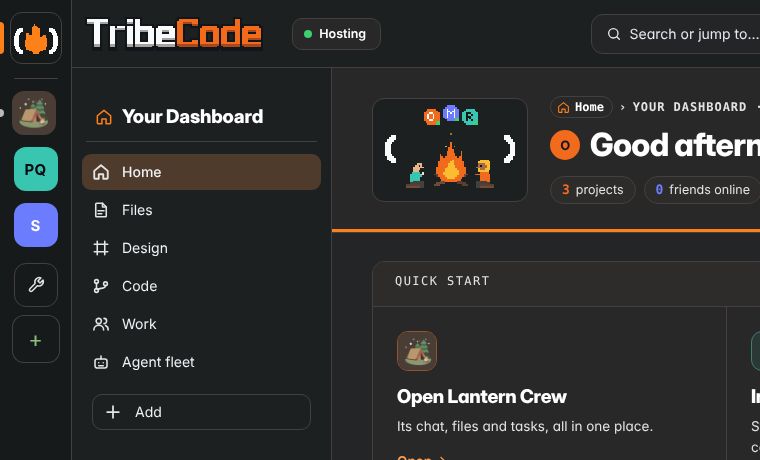
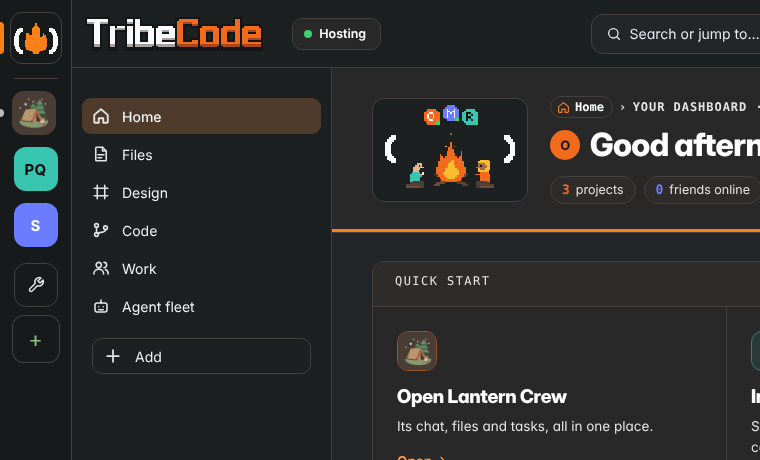
v0.31.2: remove the "Your Dashboard" heading from Home's sidebar
Claude-Session: https://claude.ai/code/session_01Twew38tmNVdwNycXqatzin

diff --git a/app/ui/sw.js b/app/ui/sw.js
@@ -1,5 +1,5 @@
 // Offline shell for the installed app. API, MCP and WebSocket traffic always goes to the network.
-const CACHE = 'tribecode-shell-v173';
+const CACHE = 'tribecode-shell-v174';
 const SHELL = ['./', 'canvas/extras.js', 'canvas/extras.css', 'phonehost.js', 'phonehost.css', 'motion.css', 'motion.js', 'tasks.css', 'flintfly.js', 'flintfly.css', 'index.html', 'join.html', 'tokens.css', 'fonts.css', 'styles.css', 'readability.css', 'keyboard.js', 'modes.js', 'mentions.js', 'exporter.js', 'helpersetup.js', 'healthpill.js', 'updater.css', 'live.css', 'docs.css', 'mobile.css', 'coedit.css', 'web.css', 'repo.css', 'notify.css', 'userbar.js', 'cropper.js', 'cropper.css', 'chatlist.css', 'guide.js', 'guide.css', 'help.js', 'help.css', 'hostpill.js', 'hostpill.css', 'panes.js', 'panes.css', 'logo.js', 'logo.css', 'flintguide.js', 'flintguide.css', 'palette.css', 'assets/flint.svg', 'widgets.js', 'widgets.css', 'sense.js', 'sense.css', 'assets/icon-animated.svg', 'assets/icon-mark-animated.svg', 'assets/icon-mark.svg', 'assets/icon-mark-once.svg', 'richtext.js', 'richtext.css', 'flint.js', 'flintmem.js', 'flint.css', 'connectai.js', 'connectai.css', 'mcpdir.js', 'mcpdir.css', 'brainpick.js', 'brainpick.css', 'askagent.js', 'doclayout.js', 'doclayout.css', 'oauth.css', 'oauth.js', 'signin.html', 'go.html', 'demo.html', 'demo.webmanifest', 'voice.css', 'plan.css', 'projects.css', 'shell.css', 'coord.css', 'selfheal.js', 'store.js', 'tribe.js', 'media.js', 'settings.js', 'storage.js', 'i18n.js', 'flinttour.js', 'updater.js', 'md.js', 'tasks.js', 'tasknews.js', 'ot.js', 'coedit.js', 'docs.js', 'board.js', 'bugs.js', 'palette.js', 'huddle.js', 'qr.js', 'web.js', 'repo.js', 'notify.js', 'speech.js', 'captions.js', 'capture.js', 'dm.js', 'chatx.js', 'float.js', 'plan.js', 'docsx.js', 'visuals.js', 'app.js', 'projects.js', 'stage.js', 'roles.js', 'roles.css', 'codefiles.js', 'codefiles.css', 'profiles.js', 'profiles.css', 'look.js', 'look.css', 'channels.js', 'chatrich.js', 'emojipick.js', 'chat2.css', 'shell.js', 'coord.js', 'assets/icon-512.png', 'assets/icon.svg', 'assets/wordmark.svg', 'manifest.webmanifest', 'assets/illustrations/cooperative.svg', 'assets/illustrations/campfire.svg', 'assets/illustrations/brain.svg', 'assets/illustrations/chat.svg', 'assist.js', 'assist.css', 'assets/apple-touch-icon.png', 'people.css', 'votes.css', 'gists.css', 'flow.css', 'repohero.css', 'mobile2.css', 'workshop.css', 'offline.css', 'agentshub.css', 'secretary.css', 'bubbles.css', 'plusmenu.css', 'preview.css', 'hub.css', 'folders.css', 'website.css', 'themes.css', 'viewers.css', 'phoneapp.css', 'offline.js', 'themes.js', 'votes.js', 'people.js', 'gists.js', 'flow.js', 'repohero.js', 'mobile2.js', 'workshop.js', 'agentshub.js', 'secretary.js', 'profilemenu.js', 'plusmenu.js', 'preview.js', 'github.js', 'folders.js', 'hub.js', 'website.js', 'viewers.js', 'phoneapp.js', 'assets/fonts/Inter-Bold.otf', 'assets/fonts/Inter-Medium.otf', 'assets/fonts/Inter-Regular.otf', 'assets/fonts/Inter-SemiBold.otf', 'assets/fonts/InterDisplay-ExtraBold.otf', 'assets/wordmark-light.svg', 'showcase.css', 'showcase.js', 'agentsdash.js', 'agentsdash.css', 'fleet.js', 'fleet.css', 'whiteboard.js', 'whiteboard.css', 'director.js', 'director.css', 'demo-game.html', 'setup.js', 'setup.css', 'captures.js', 'captures.css', 'welcome.js', 'welcome.css', 'filegrid.js', 'filegrid.css', 'assets.js', 'assets.css', 'inspo.js', 'reco.js', 'companylinks.js', 'inspo.css', 'cursors.js', 'cursors.css', 'sheet.js', 'deck.js', 'crafts.css', 'feedback.js', 'feedback.css', 'focus.js', 'assets/camp.svg', 'ship.js', 'ship.css', 'company.js', 'company.css', 'ledger.js', 'ledger.css', 'talent.js', 'talent.css', 'market.js', 'market.css', 'academy.js', 'academy.css', 'legal.js', 'legal.css', 'offload.js', 'offload.css', 'studios.js', 'studios.css', 'publish.js', 'publish.css', 'jam.js', 'jam.css', 'firstrun.js', 'firstrun.css', 'previewflint.css', 'previewflint.js', 'personalize.js', 'personalize.css', 'pins.js', 'pins.css', 'canvas/scene.js', 'canvas/layers.js', 'canvas/props.js', 'canvas/canvas.js', 'canvas/canvas.css', 'canvas/code.js', 'canvas/code.css', 'sitelib.js', 'sitelib.css', 'canvas/flint.js', 'canvas/flint.css', 'flintnlu.js', 'flintlocal.js', 'canvas/flintpane.js', 'canvas/flintpane.css', 'offline.html', 'pwa.js', 'pwa.css', 'moderation.js', 'moderation.css', 'assets/icon-192.png', 'assets/icon-512-maskable.png', 'assets/icon-monochrome.png', 'privacy.html', 'terms.html', 'setuplocal.js', 'setuplocal.css', 'localfiles.js', 'localfiles.css', 'aibasics-core.js', 'aibasics.js', 'aibasics.css', 'flintgrow.js', 'inspoboard.js', 'inspoboard.css', 'router.js', 'accounts.js', 'accounts.css', 'siteedit-core.js', 'siteshelf.js', 'siteshelf.css', 'workcore.js', 'workloop.js', 'workloop.css', 'doctpl-data.js', 'doctpl.js', 'doctpl.css', 'premium.js', 'premium.css', 'localdoc.js', 'flintrun.js', 'flintrun.css', 'devslate.js', 'aiconsent.js', 'aiconsent.css', 'signup.js', 'signup.css', 'sitecfg.js', 'sitedesigner.js', 'sitedesigner.css', 'sitedesigner-frame.js', 'framerun.js', 'aiboost.js', 'aiboost.css', 'flintlessons.js', 'flintlessons.css', 'demowatch.js', 'demowatch.css', 'makelink.js', 'filesview.js', 'filesview.css', 'icons.js', 'icons.css', 'rail.css', 'plans.js', 'plans.css', 'homegit.js', 'homegit.css', 'sidefoot.js', 'sidefoot.css', 'reorder.js', 'reorder.css', 'market-catalog.json', 'abilities.js', 'abilities.css', 'siteimport.js', 'sitetpl/catalog.json', 'sitetpl/linkbio.json', 'sitetpl/tt-profile-card.json', 'sitetpl/h5-identity.json', 'sitetpl/service.json', 'sitetpl/sb-agency.json', 'sitetpl/sb-business-frontpage.json', 'sitetpl/sb-creative.json', 'sitetpl/sb-modern-business.json', 'sitetpl/sb-small-business.json', 'sitetpl/saas.json', 'sitetpl/sb-grayscale.json', 'sitetpl/sb-landing-page.json', 'sitetpl/sb-new-age.json', 'sitetpl/sb-one-page-wonder.json', 'sitetpl/tt-landing-page.json', 'sitetpl/tt-app-landing.json', 'sitetpl/h5-photon.json', 'sitetpl/h5-stellar.json', 'sitetpl/h5-landed.json', 'sitetpl/portfolio.json', 'sitetpl/photography.json', 'sitetpl/sb-freelancer.json', 'sitetpl/sb-stylish-portfolio.json', 'sitetpl/h5-forty.json', 'sitetpl/h5-miniport.json', 'sitetpl/resume.json', 'sitetpl/sb-personal.json', 'sitetpl/sb-resume.json', 'sitetpl/h5-dimension.json', 'sitetpl/h5-read-only.json', 'sitetpl/blog.json', 'sitetpl/sb-clean-blog.json', 'sitetpl/tt-ghostwind.json', 'sitetpl/tt-minimal-blog.json', 'sitetpl/h5-massively.json', 'sitetpl/merch.json', 'sitetpl/tt-nordic-store.json', 'sitetpl/cafe.json', 'sitetpl/sb-business-casual.json', 'sitetpl/band.json', 'sitetpl/creator.json', 'sitetpl/podcast.json', 'sitetpl/wedding.json', 'sitetpl/nonprofit.json', 'sitetpl/gamepage.json', 'sitetpl/comingsoon.json', 'sitetpl/sb-coming-soon.json', 'sitetpl/h5-eventually.json', 'presence.js', 'presence.css', 'peoplepanel.js', 'peoplepanel.css', 'starterkit.js', 'designflow-data.js', 'designflow.js', 'designflow.css', 'starters/catalog.json'];
 if (/(^|\.)tauri\.localhost$/.test(self.location.hostname) || self.location.protocol === 'tauri:') {   // never inside the desktop app
   self.addEventListener('install', () => self.skipWaiting());

diff --git a/app/ui/hub.css b/app/ui/hub.css
@@ -571,10 +571,7 @@ body.global .crumbs .pj-switch, body.global .crumbs .pj-sep { display: none !imp
 #rail-logo { position: relative; }
 /* the sidebar says where you are */
 /* the sidebar's heading on Home (feat/shell-polish): "Your Dashboard", big and bold in the display face, with a small home icon */
-.nest-home-h { display: flex; align-items: center; gap: 8px; margin: 4px 4px 12px; padding: 4px 8px 12px; border-bottom: 1px solid var(--edge); color: var(--text); white-space: nowrap; overflow: hidden;
   font: 800 19px/1.2 var(--display); letter-spacing: -0.01em; }
-.nest-home-h .ti { color: var(--accent); }
-.nest-home-h b { font-weight: 800; overflow: hidden; text-overflow: ellipsis; }
 /* the breadcrumb starts with Home › */
 .crumb-home { display: inline-flex; align-items: center; gap: 4px; }
 .crumb-home[hidden] { display: none; }
@@ -592,7 +589,6 @@ body.at-home .main > #view-hub:has(.hub-files), body.at-home .main > #view-hub:h
   #view-hub .hub-home > .hub-id { margin: 0 -14px 16px; padding: 16px 14px 18px; border-width: 1px 0; }
   #view-hub .hub-home > .hub-id .hid-art { width: 74px; height: 62px; } #view-hub .hub-home > .hub-id .hid-art img { width: 66px; }
   #view-hub .hub-home > .hub-id h1 { font-size: 21px; }
-  .nest-home-h { margin: 0 4px 8px; }
 }
 .hub-crumb { display: flex; align-items: center; gap: 6px; margin: 0 0 8px; font: 600 12px/1 var(--mono); letter-spacing: .04em; color: var(--muted); }
 .hub-crumb .hc-home { display: inline-flex; align-items: center; gap: 5px; height: 22px; padding: 0 8px 0 6px; border: 1px solid var(--edge); border-radius: 999px; background: var(--surface); color: var(--text); font: inherit; cursor: pointer; }

diff --git a/app/ui/shell.js b/app/ui/shell.js
@@ -135,7 +135,7 @@
     const box = $('#nest-groups'); if (!box) return;
     drawnGlobal = isGlobal();
     document.body.classList.toggle('global', drawnGlobal);   // keep the class in step whichever path drew the rows
-    box.innerHTML = drawnGlobal ? `<h2 class="nest-home-h" id="nest-home-h" aria-current="page"><span data-icon="home" data-icon-size="20"></span><b>Your Dashboard</b></h2><div class="nest-group nest-global" id="grp-global" role="group" aria-label="Global">${DEST.filter(d => d.group === 'global' && (!(window.TribeMode && window.TribeMode.focused && window.TribeMode.focused()) || shown(d))).map(d =>
+    box.innerHTML = drawnGlobal ? `<div class="nest-group nest-global" id="grp-global" role="group" aria-label="Global">${DEST.filter(d => d.group === 'global' && (!(window.TribeMode && window.TribeMode.focused && window.TribeMode.focused()) || shown(d))).map(d =>
       `<button class="nest-row" data-pnav="${esc(d.key)}" id="nest-${esc(d.key)}">${ico(d.icon, 18)}<span>${esc(d.row || d.label)}</span></button>`).join('')}</div>` : '';
   }
   function paintCounts() {

diff --git a/app/test/e2e_shell_polish.py b/app/test/e2e_shell_polish.py
@@ -2,7 +2,7 @@
 pop-out, Connect GitHub on Home › Code, the sidebar's foot rows, the Workshop as a destination and your own order.
   1. Rail: Home, a tribe and the Workshop wrench light the same way: a pressed tile (no box-shadow) and a 32px Ember pill
      on the far-left edge; Back leaves the Workshop.
-  2. Home's sidebar says "Your Dashboard", big and bold.
+  2. Home's sidebar has no heading; the lit logo and the breadcrumb say where you are.
   3. Tabs (a workspace's, the Workshop's) and Settings carry stroke icons from app/ui/icons.js.
   4. Preview and Invite friends are rows like Files (same height, padding, type, radius, no border), with thumbnails:
      a 40x28 picture for Preview, faces (or a dashed add circle) for Invite.
@@ -76,12 +76,11 @@ def main():
             pg.goto(BASE + "/?skipIntro=1"); pg.wait_for_function("TribeClient.connected() && window.TribeHub && window.TribeProjects && TribeProjects.list().length >= 2 && window.TribeReorder", timeout=20000)
 
             # ---------- 1 + 2. Home: the lit logo and the heading ----------
-            pg.evaluate("TribeHub.open('home')"); pg.wait_for_selector("#rail-logo.on"); pg.wait_for_selector("#nest-home-h"); pg.mouse.move(700, 600); pg.wait_for_timeout(400)
+            pg.evaluate("TribeHub.open('home')"); pg.wait_for_selector("#rail-logo.on"); pg.wait_for_selector("#grp-global"); pg.mouse.move(700, 600); pg.wait_for_timeout(400)
             lg = pg.evaluate(PILL, "#rail-logo")
             assert lg["shadow"] == "none" and lg["h"] == 32 and lg["op"] == "1" and lg["left"] <= 1, ("Home: a pressed tile and the pill at the edge", lg)
             assert pg.evaluate("getComputedStyle(document.querySelector('#rail-logo')).outlineStyle") == "solid", "the tile's inset 1px border is an outline, not a shadow"
-            head = pg.evaluate("(() => { const h = document.querySelector('#nest-home-h'); const c = getComputedStyle(h); return { t: h.textContent.trim(), fs: parseFloat(c.fontSize), fw: +c.fontWeight, ico: !!h.querySelector('svg') }; })()")
-            assert head["t"] == "Your Dashboard" and head["fs"] >= 18 and head["fw"] >= 700 and head["ico"], head
+            assert pg.evaluate("!document.querySelector('#nest-home-h')"), "no Home heading in the sidebar (removed: the lit logo says where you are)"
             assert "your dashboard" not in pg.inner_text("#nest-groups").lower().replace("your dashboard", "", 1), "no '· your dashboard' left"
             pg.screenshot(path=str(SHOTS / "home-header.png"), clip={"x": 0, "y": 0, "width": 760, "height": 460})
 

diff --git a/app/test/e2e_home_parity.py b/app/test/e2e_home_parity.py
@@ -2,7 +2,7 @@
 where you are.
 
 With no tribe and then with one: the global rows are Home · Files · Design · Code · Work · Agent fleet; the rail logo is
-lit on Home (and not inside a project), the sidebar says "Your Dashboard", every Home page starts with a
+lit on Home (and not inside a project), the sidebar has no heading (the lit logo says where you are), every Home page starts with a
 "Home ›" breadcrumb and Home's top card is a band across the whole content area. Every control on every Home page is
 clicked (destructive ones skipped) with no page errors and no 5xx. With a tribe: Files' Where filter lists each tribe
 and groups by source (sheets and slides from tribes show their real previews), Design shows every canvas with its
@@ -113,7 +113,7 @@ def main():
             pg.goto(f"http://localhost:{STATIC}/?skipIntro=1#/hub"); pg.wait_for_function("window.TribeHub && window.TribeRouter && document.querySelector('#view-hub .hub-id')", timeout=20000); pg.wait_for_timeout(600)
             assert not pg.evaluate("TribeClient.hasToken()")
             st = home_state(pg)
-            assert st["lit"] and st["head"] == "Your Dashboard" and st["rows"] == ROWS, st
+            assert st["lit"] and st["head"] == "" and st["rows"] == ROWS, st
             assert crumb(pg).startswith("Home›Yourdashboard"), crumb(pg)
             hf = hero_full(pg); assert hf["hero"] >= hf["main"] - 2 and abs(hf["left"]) <= 1, ("the Home band goes across", hf)
             for key, want in (("docs-all", "Home›Files"), ("design-all", "Home›Design"), ("repos-all", "Home›Code")):
@@ -140,7 +140,7 @@ def main():
             ctx = b.new_context(viewport={"width": 1600, "height": 900}, accept_downloads=True); settings(ctx, tok)
             pg = ctx.new_page(); watch(pg, "host")
             pg.goto(BASE + "/?skipIntro=1#/hub"); pg.wait_for_function("TribeClient.connected() && document.querySelector('#view-hub .hub-id')", timeout=20000); pg.wait_for_timeout(1200)
-            st = home_state(pg); assert st["lit"] and st["head"] == "Your Dashboard" and st["rows"] == ROWS, st
+            st = home_state(pg); assert st["lit"] and st["head"] == "" and st["rows"] == ROWS, st
             hf = hero_full(pg); assert hf["hero"] >= hf["main"] - 2, hf
             shot(pg, "home-active")
             # Files: Where lists each tribe, groups by source, real previews from tribes

diff --git a/CHANGELOG.md b/CHANGELOG.md
@@ -1,5 +1,9 @@
 # Changelog
 
+## v0.31.2
+- **Home's sidebar heading is gone**: the "Your Dashboard" line above Files, Design, Code, Work and Agent fleet is removed. The lit logo and the "Home ›" breadcrumb already say where you are.
+- **Phones**: the same, one less line above the rows.
+
 ## v0.31.1
 - **The tour waits for you**: "See how TribeCode works" now goes one step at a time. Flint does a step, then waits for **Next** (→ or Enter); **Back** (←) replays the previous one. A step line shows where you are ("Step 3 of 12 · Start a project").
 - **Auto-play is a toggle**, slower than before: each caption stays up long enough to read, typing looks human, the cursor glides and each click pauses with a ripple. The whole tour runs about 2½ minutes.
